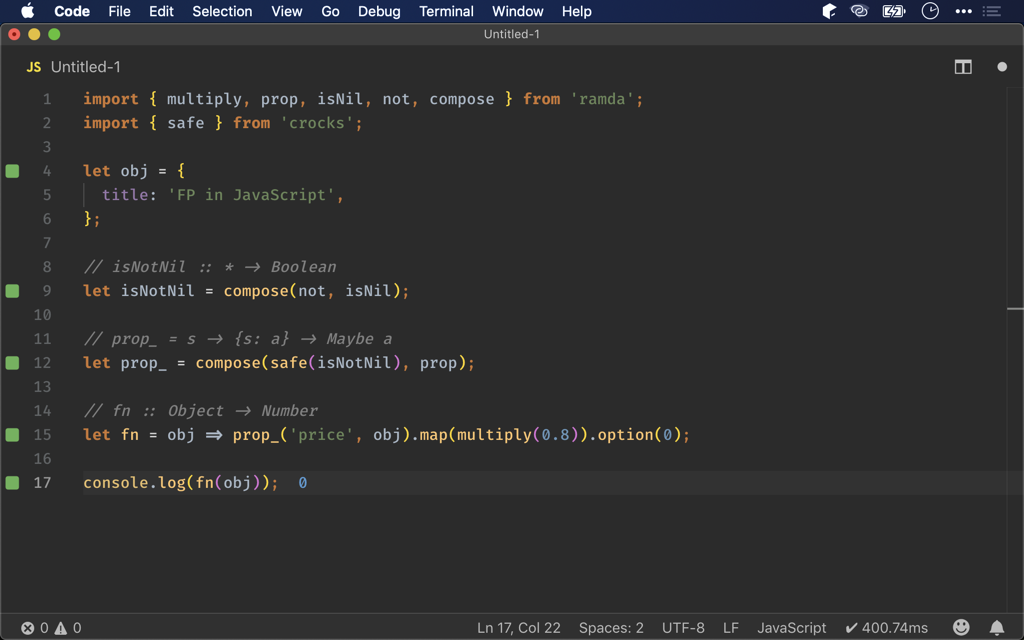
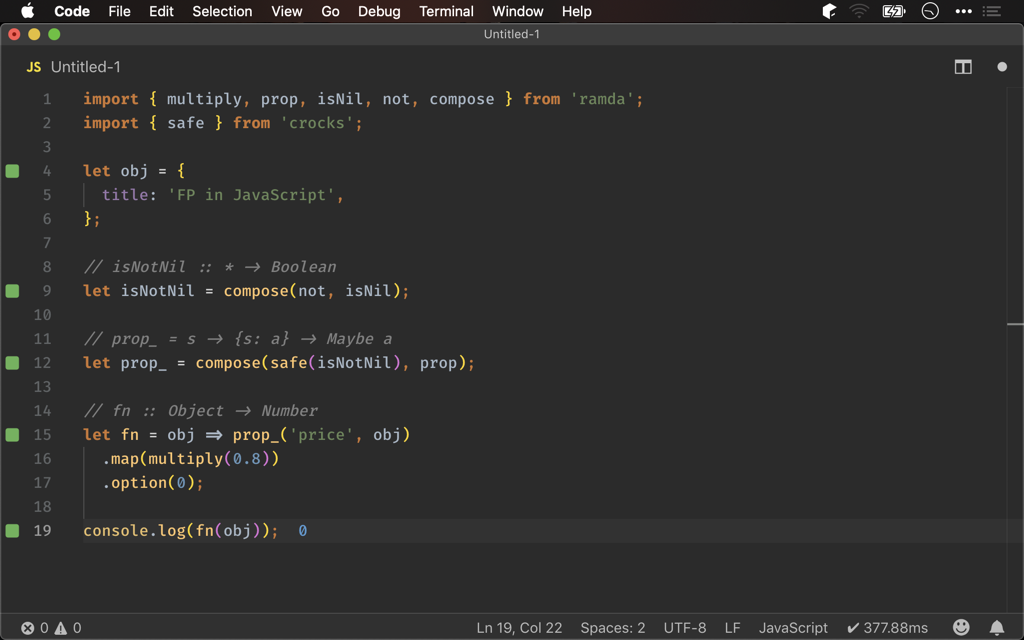
Crocks 之 prop()

diff --git a/source/_posts/crocks/prop.md b/source/_posts/crocks/prop.md
@@ -94,7 +94,9 @@ let isNotNil = compose(not, isNil);
 let prop_ = compose(safe(isNotNil), prop);
 
 // fn :: Object -> Number
-let fn = obj => prop_('price', obj).map(multiply(0.8)).option(0);
+let fn = obj => prop_('price', obj)
+  .map(multiply(0.8))
+  .option(0);
 
 console.log(fn(obj));
 ```
@@ -125,7 +127,9 @@ let isNotNil = compose(not, isNil);
 
 ```javascript
 // fn :: Object -> Number
-let fn = obj => prop_('price', obj).map(multiply(0.8)).option(0);
+let fn = obj => prop_('price', obj)
+  .map(multiply(0.8))
+  .option(0);
 ```
 
 `fn()` 改用自訂的 `prop_()`。
@@ -147,7 +151,9 @@ let obj = {
 };
 
 // fn :: Object -> Number
-let fn = obj => prop('price', obj).map(multiply(0.8)).option(0);
+let fn = obj => prop('price', obj)
+  .map(multiply(0.8))
+  .option(0);
 
 console.log(fn(obj));
 ```
